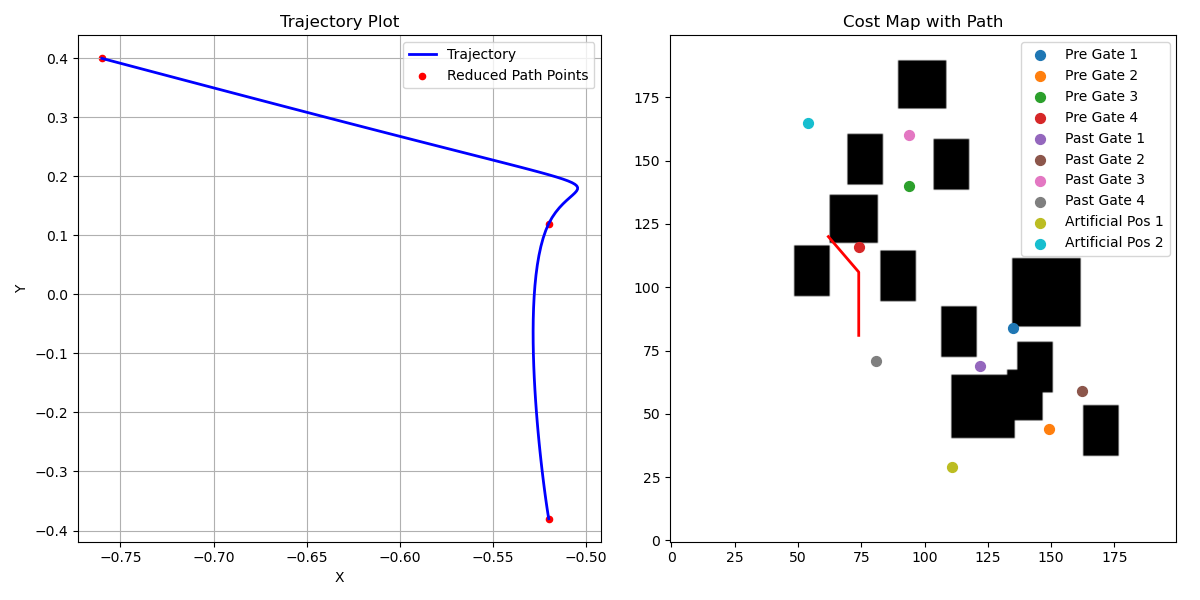
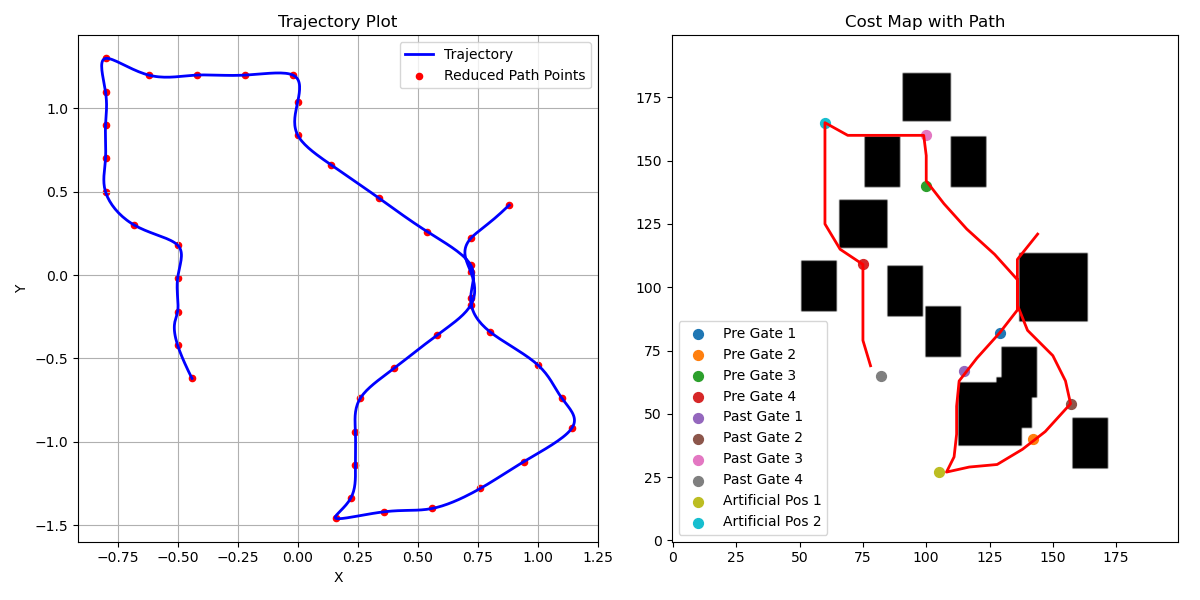
test 2

diff --git a/lsy_drone_racing/control/minsnap_controller.py b/lsy_drone_racing/control/minsnap_controller.py
@@ -32,7 +32,7 @@ class MinSnapController(Controller):
 
         self.t_total = 16.0  # total time duration
         self.time = 0 # time passed since start
-        self.plot = True
+        self.plot = False
 
         self.min_x, self.max_x = -2.0, 2.0
         self.min_y, self.max_y = -2.0, 2.0
@@ -249,7 +249,7 @@ class MinSnapController(Controller):
         if self.target_positions is None or self.target_positions.size == 0:
             start_pos = pos
         else:
-            start_pos = self.target_positions[self._tick+4]
+            start_pos = self.target_positions[self._tick+3]
 
         start_grid = self.to_grid(x=start_pos[0], y=start_pos[1])
 
@@ -502,7 +502,7 @@ class MinSnapController(Controller):
             ])
 
         #combined_3d_path = self.calculate_drone_path(pos, start_pos, gates_pos, gates, target_gate, cost_map)
-        reduced_3d_path = combined_3d_path[::25]
+        reduced_3d_path = combined_3d_path[::15]
         num_points = reduced_3d_path.shape[0]
         time_steps = np.linspace(tau, self.t_total, num_points)
         
